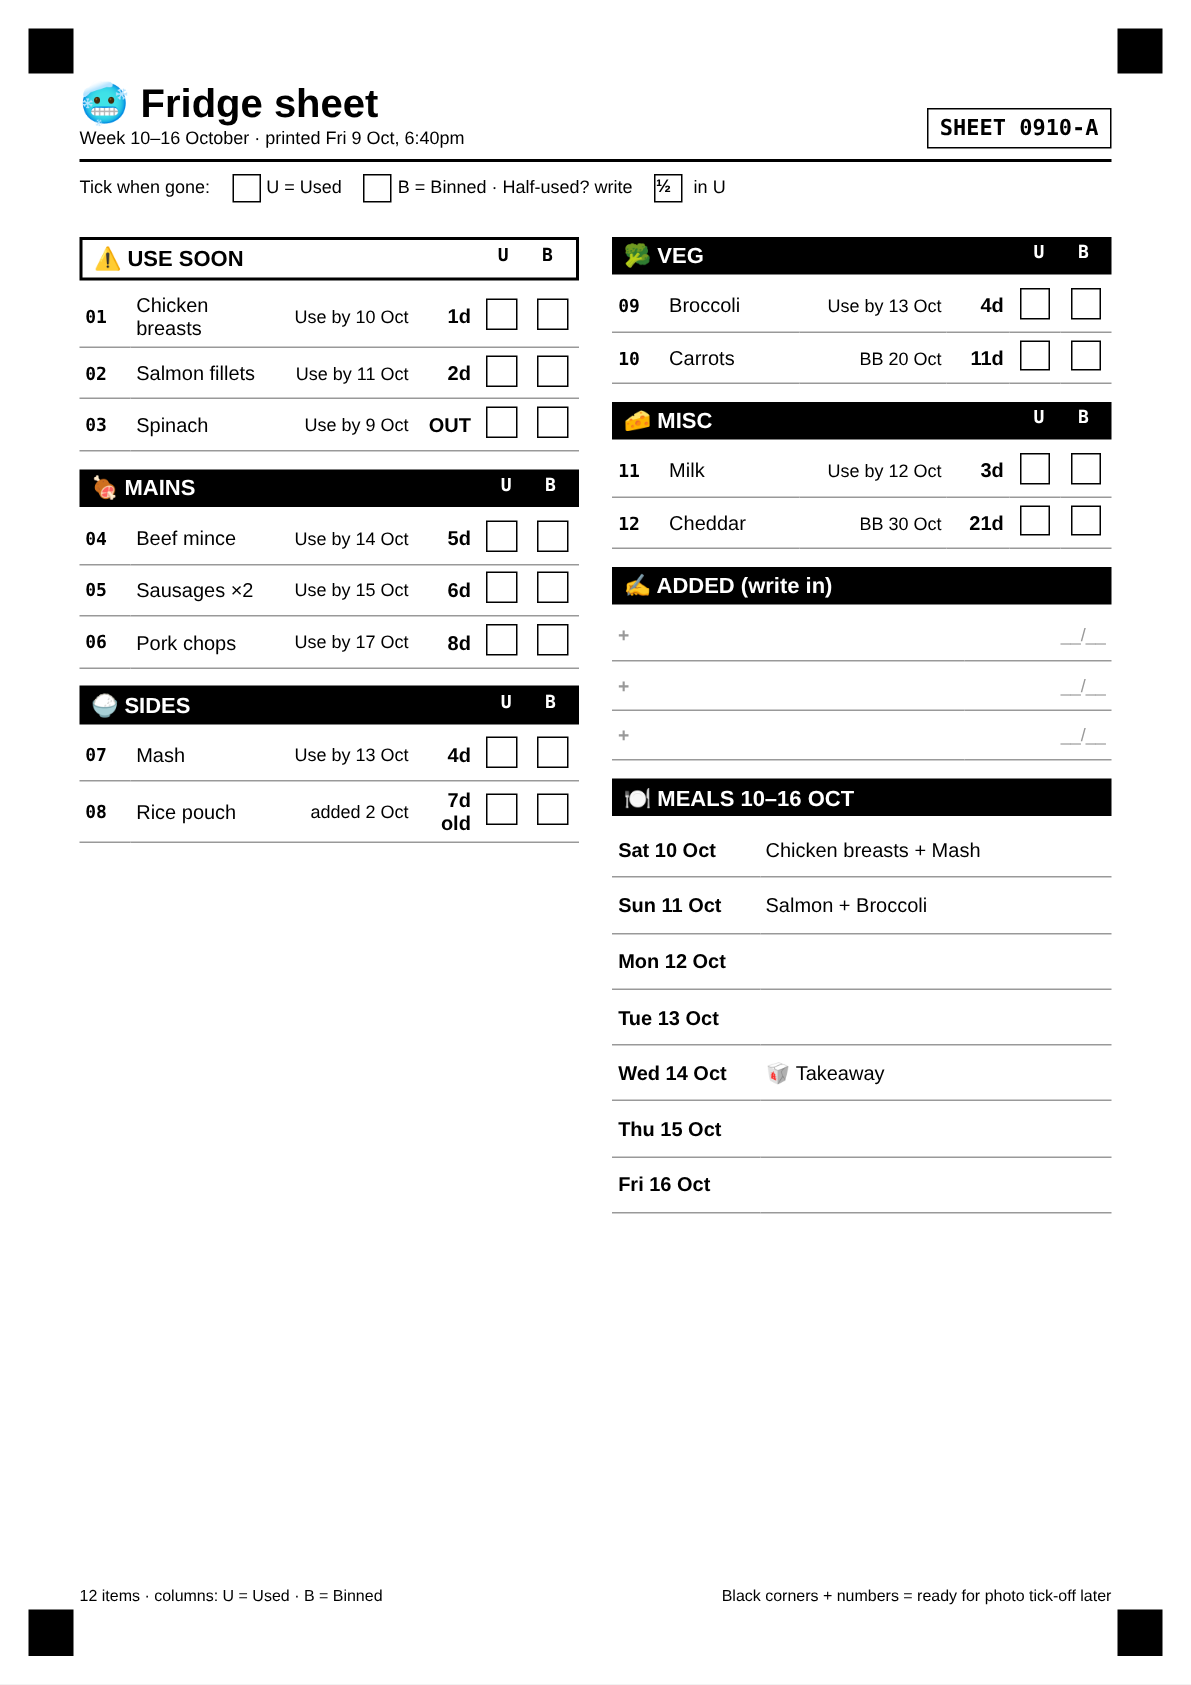
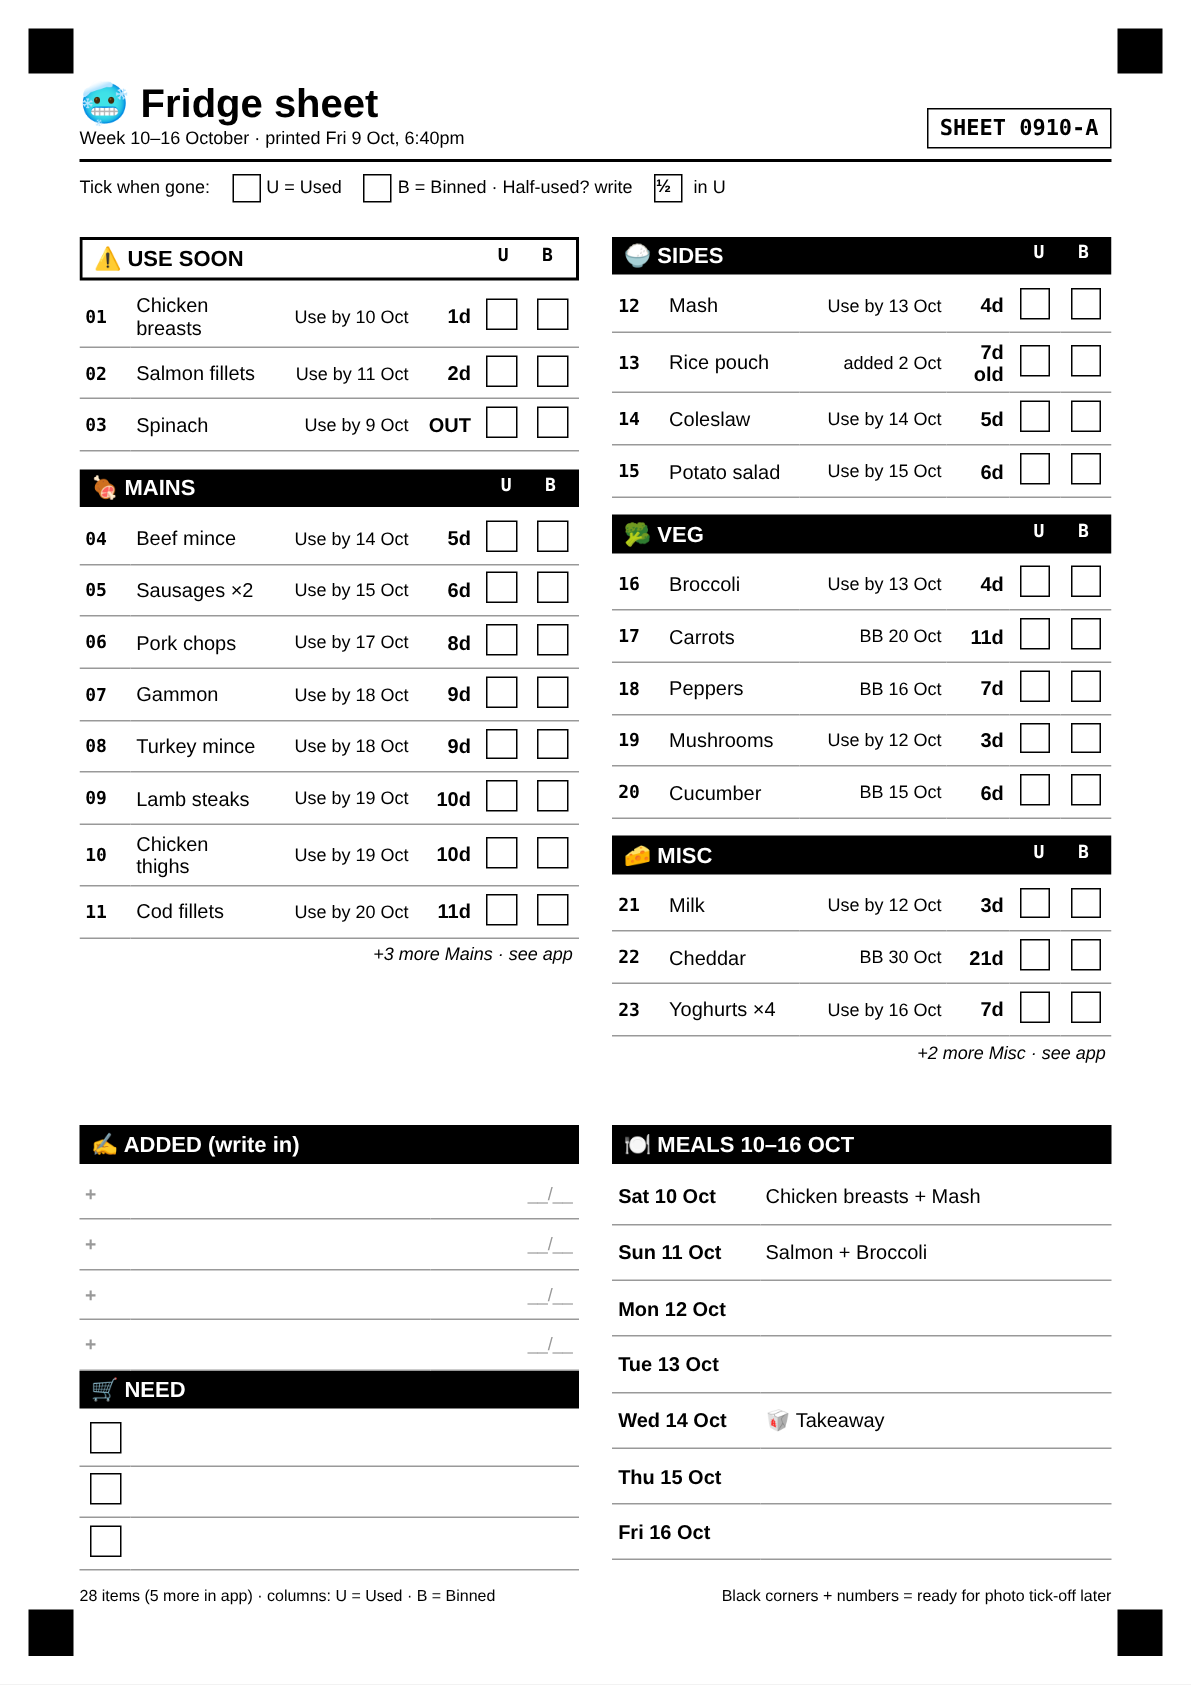
Print mockup: fixed Added/Need and Meals boxes at bottom, overflow lines
Claude-Session: https://claude.ai/code/session_01RYuLFCMH8FfbNC7o54QPRC

diff --git a/docs/mockup-print.html b/docs/mockup-print.html
@@ -27,6 +27,10 @@
   .meals td { height: 7mm; }
   .meals td.day { width: 24mm; white-space: nowrap; font-weight: bold; }
   .foot { position: absolute; bottom: 14mm; left: 14mm; right: 14mm; font-size: 8pt; display: flex; justify-content: space-between; }
+  .top { height: 158mm; overflow: hidden; }
+  .bottom { position: absolute; left: 14mm; right: 14mm; bottom: 20mm; }
+  .more { font-size: 9pt; font-style: italic; text-align: right; padding: 1mm; }
+  .bottom h2 { margin-top: 0; }
 </style></head>
 <body>
 <div class="page">
@@ -39,62 +43,8 @@
 
   <div class="key">Tick when gone: <b></b>U = Used <b></b>B = Binned · Half-used? write <b>½</b> in U</div>
 
-  <div class="cols">
-    <div>
-      <h2 class="soon">⚠ USE SOON<span class="ub">U B</span></h2>
-      <table>
-        <tr><td class="id">01</td><td>Chicken breasts</td><td class="d">Use by 10 Oct</td><td class="n">1d</td><td class="bx"><span></span></td><td class="bx"><span></span></td></tr>
-        <tr><td class="id">02</td><td>Salmon fillets</td><td class="d">Use by 11 Oct</td><td class="n">2d</td><td class="bx"><span></span></td><td class="bx"><span></span></td></tr>
-        <tr><td class="id">03</td><td>Spinach</td><td class="d">Use by 9 Oct</td><td class="n">OUT</td><td class="bx"><span></span></td><td class="bx"><span></span></td></tr>
-      </table>
-
-      <h2>🍖 MAINS<span class="ub">U B</span></h2>
-      <table>
-        <tr><td class="id">04</td><td>Beef mince</td><td class="d">Use by 14 Oct</td><td class="n">5d</td><td class="bx"><span></span></td><td class="bx"><span></span></td></tr>
-        <tr><td class="id">05</td><td>Sausages ×2</td><td class="d">Use by 15 Oct</td><td class="n">6d</td><td class="bx"><span></span></td><td class="bx"><span></span></td></tr>
-        <tr><td class="id">06</td><td>Pork chops</td><td class="d">Use by 17 Oct</td><td class="n">8d</td><td class="bx"><span></span></td><td class="bx"><span></span></td></tr>
-      </table>
-
-      <h2>🍚 SIDES<span class="ub">U B</span></h2>
-      <table>
-        <tr><td class="id">07</td><td>Mash</td><td class="d">Use by 13 Oct</td><td class="n">4d</td><td class="bx"><span></span></td><td class="bx"><span></span></td></tr>
-        <tr><td class="id">08</td><td>Rice pouch</td><td class="d">added 2 Oct</td><td class="n">7d old</td><td class="bx"><span></span></td><td class="bx"><span></span></td></tr>
-      </table>
-    </div>
-
-    <div>
-      <h2>🥦 VEG<span class="ub">U B</span></h2>
-      <table>
-        <tr><td class="id">09</td><td>Broccoli</td><td class="d">Use by 13 Oct</td><td class="n">4d</td><td class="bx"><span></span></td><td class="bx"><span></span></td></tr>
-        <tr><td class="id">10</td><td>Carrots</td><td class="d">BB 20 Oct</td><td class="n">11d</td><td class="bx"><span></span></td><td class="bx"><span></span></td></tr>
-      </table>
-
-      <h2>🧀 MISC<span class="ub">U B</span></h2>
-      <table>
-        <tr><td class="id">11</td><td>Milk</td><td class="d">Use by 12 Oct</td><td class="n">3d</td><td class="bx"><span></span></td><td class="bx"><span></span></td></tr>
-        <tr><td class="id">12</td><td>Cheddar</td><td class="d">BB 30 Oct</td><td class="n">21d</td><td class="bx"><span></span></td><td class="bx"><span></span></td></tr>
-      </table>
-
-      <h2>✍ ADDED (write in)</h2>
-      <table class="blank">
-        <tr><td class="id">+</td><td>&nbsp;</td><td class="d">__/__</td></tr>
-        <tr><td class="id">+</td><td>&nbsp;</td><td class="d">__/__</td></tr>
-        <tr><td class="id">+</td><td>&nbsp;</td><td class="d">__/__</td></tr>
-      </table>
-
-      <h2>🍽 MEALS 10–16 OCT</h2>
-      <table class="meals">
-        <tr><td class="day">Sat 10 Oct</td><td>Chicken breasts + Mash</td></tr>
-        <tr><td class="day">Sun 11 Oct</td><td>Salmon + Broccoli</td></tr>
-        <tr><td class="day">Mon 12 Oct</td><td>&nbsp;</td></tr>
-        <tr><td class="day">Tue 13 Oct</td><td>&nbsp;</td></tr>
-        <tr><td class="day">Wed 14 Oct</td><td>🥡 Takeaway</td></tr>
-        <tr><td class="day">Thu 15 Oct</td><td>&nbsp;</td></tr>
-        <tr><td class="day">Fri 16 Oct</td><td>&nbsp;</td></tr>
-      </table>
-    </div>
-  </div>
-
-  <div class="foot"><span>12 items · columns: U = Used · B = Binned</span><span>Black corners + numbers = ready for photo tick-off later</span></div>
+  <div class="cols top"><div><h2 class="soon">⚠ USE SOON<span class="ub">U B</span></h2><table><tr><td class="id">01</td><td>Chicken breasts</td><td class="d">Use by 10 Oct</td><td class="n">1d</td><td class="bx"><span></span></td><td class="bx"><span></span></td></tr><tr><td class="id">02</td><td>Salmon fillets</td><td class="d">Use by 11 Oct</td><td class="n">2d</td><td class="bx"><span></span></td><td class="bx"><span></span></td></tr><tr><td class="id">03</td><td>Spinach</td><td class="d">Use by 9 Oct</td><td class="n">OUT</td><td class="bx"><span></span></td><td class="bx"><span></span></td></tr></table><h2 class="">🍖 MAINS<span class="ub">U B</span></h2><table><tr><td class="id">04</td><td>Beef mince</td><td class="d">Use by 14 Oct</td><td class="n">5d</td><td class="bx"><span></span></td><td class="bx"><span></span></td></tr><tr><td class="id">05</td><td>Sausages ×2</td><td class="d">Use by 15 Oct</td><td class="n">6d</td><td class="bx"><span></span></td><td class="bx"><span></span></td></tr><tr><td class="id">06</td><td>Pork chops</td><td class="d">Use by 17 Oct</td><td class="n">8d</td><td class="bx"><span></span></td><td class="bx"><span></span></td></tr><tr><td class="id">07</td><td>Gammon</td><td class="d">Use by 18 Oct</td><td class="n">9d</td><td class="bx"><span></span></td><td class="bx"><span></span></td></tr><tr><td class="id">08</td><td>Turkey mince</td><td class="d">Use by 18 Oct</td><td class="n">9d</td><td class="bx"><span></span></td><td class="bx"><span></span></td></tr><tr><td class="id">09</td><td>Lamb steaks</td><td class="d">Use by 19 Oct</td><td class="n">10d</td><td class="bx"><span></span></td><td class="bx"><span></span></td></tr><tr><td class="id">10</td><td>Chicken thighs</td><td class="d">Use by 19 Oct</td><td class="n">10d</td><td class="bx"><span></span></td><td class="bx"><span></span></td></tr><tr><td class="id">11</td><td>Cod fillets</td><td class="d">Use by 20 Oct</td><td class="n">11d</td><td class="bx"><span></span></td><td class="bx"><span></span></td></tr></table><div class="more">+3 more Mains · see app</div></div><div><h2 class="">🍚 SIDES<span class="ub">U B</span></h2><table><tr><td class="id">12</td><td>Mash</td><td class="d">Use by 13 Oct</td><td class="n">4d</td><td class="bx"><span></span></td><td class="bx"><span></span></td></tr><tr><td class="id">13</td><td>Rice pouch</td><td class="d">added 2 Oct</td><td class="n">7d old</td><td class="bx"><span></span></td><td class="bx"><span></span></td></tr><tr><td class="id">14</td><td>Coleslaw</td><td class="d">Use by 14 Oct</td><td class="n">5d</td><td class="bx"><span></span></td><td class="bx"><span></span></td></tr><tr><td class="id">15</td><td>Potato salad</td><td class="d">Use by 15 Oct</td><td class="n">6d</td><td class="bx"><span></span></td><td class="bx"><span></span></td></tr></table><h2 class="">🥦 VEG<span class="ub">U B</span></h2><table><tr><td class="id">16</td><td>Broccoli</td><td class="d">Use by 13 Oct</td><td class="n">4d</td><td class="bx"><span></span></td><td class="bx"><span></span></td></tr><tr><td class="id">17</td><td>Carrots</td><td class="d">BB 20 Oct</td><td class="n">11d</td><td class="bx"><span></span></td><td class="bx"><span></span></td></tr><tr><td class="id">18</td><td>Peppers</td><td class="d">BB 16 Oct</td><td class="n">7d</td><td class="bx"><span></span></td><td class="bx"><span></span></td></tr><tr><td class="id">19</td><td>Mushrooms</td><td class="d">Use by 12 Oct</td><td class="n">3d</td><td class="bx"><span></span></td><td class="bx"><span></span></td></tr><tr><td class="id">20</td><td>Cucumber</td><td class="d">BB 15 Oct</td><td class="n">6d</td><td class="bx"><span></span></td><td class="bx"><span></span></td></tr></table><h2 class="">🧀 MISC<span class="ub">U B</span></h2><table><tr><td class="id">21</td><td>Milk</td><td class="d">Use by 12 Oct</td><td class="n">3d</td><td class="bx"><span></span></td><td class="bx"><span></span></td></tr><tr><td class="id">22</td><td>Cheddar</td><td class="d">BB 30 Oct</td><td class="n">21d</td><td class="bx"><span></span></td><td class="bx"><span></span></td></tr><tr><td class="id">23</td><td>Yoghurts ×4</td><td class="d">Use by 16 Oct</td><td class="n">7d</td><td class="bx"><span></span></td><td class="bx"><span></span></td></tr></table><div class="more">+2 more Misc · see app</div></div></div>
+  <div class="cols bottom"><div><h2>✍ ADDED (write in)</h2><table class="blank"><tr><td class="id">+</td><td>&nbsp;</td><td class="d">__/__</td></tr><tr><td class="id">+</td><td>&nbsp;</td><td class="d">__/__</td></tr><tr><td class="id">+</td><td>&nbsp;</td><td class="d">__/__</td></tr><tr><td class="id">+</td><td>&nbsp;</td><td class="d">__/__</td></tr></table><h2>🛒 NEED</h2><table class="blank"><tr><td class="bx"><span></span></td><td>&nbsp;</td></tr><tr><td class="bx"><span></span></td><td>&nbsp;</td></tr><tr><td class="bx"><span></span></td><td>&nbsp;</td></tr></table></div><div><h2>🍽 MEALS 10–16 OCT</h2><table class="meals"><tr><td class="day">Sat 10 Oct</td><td>Chicken breasts + Mash</td></tr><tr><td class="day">Sun 11 Oct</td><td>Salmon + Broccoli</td></tr><tr><td class="day">Mon 12 Oct</td><td>&nbsp;</td></tr><tr><td class="day">Tue 13 Oct</td><td>&nbsp;</td></tr><tr><td class="day">Wed 14 Oct</td><td>🥡 Takeaway</td></tr><tr><td class="day">Thu 15 Oct</td><td>&nbsp;</td></tr><tr><td class="day">Fri 16 Oct</td><td>&nbsp;</td></tr></table></div></div>
+  <div class="foot"><span>28 items (5 more in app) · columns: U = Used · B = Binned</span><span>Black corners + numbers = ready for photo tick-off later</span></div>
 </div>
 </body></html>
